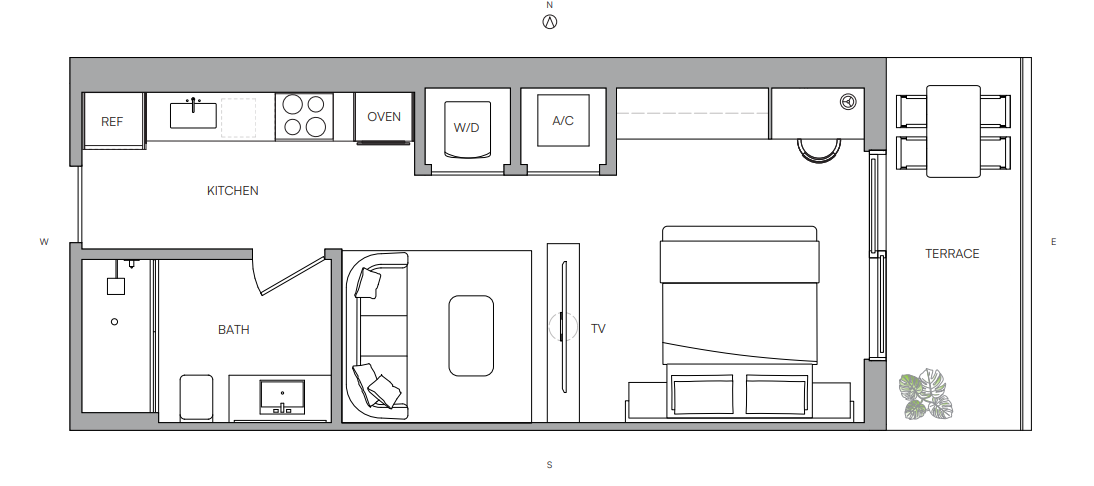
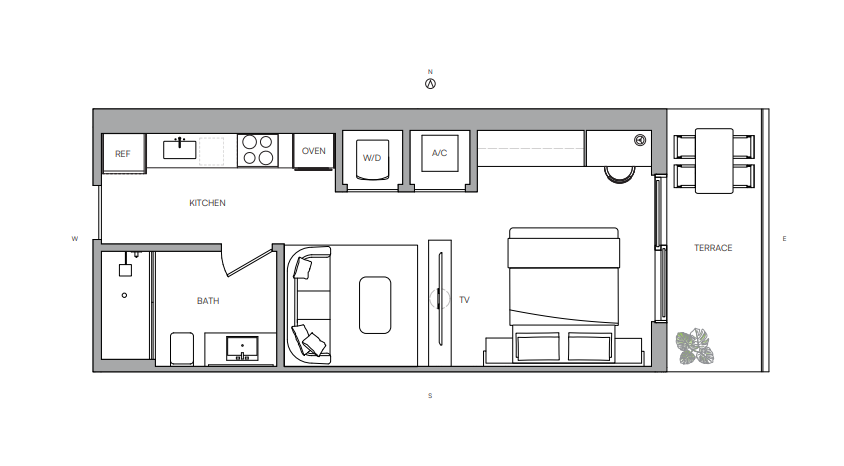
Update Torre Lumina HTML to include downloadable plans with images for Linea 01 to Linea 13

Changed region(s): [[0.0308, 0.0901, 0.955, 0.9013], [0.4929, 0.0, 0.5237, 0.0601], [0.8626, 0.1502, 0.8934, 0.1803]]

diff --git a/torre-lumina.html b/torre-lumina.html
@@ -302,11 +302,11 @@
 
     <!-- Panel: Monoambiente -->
     <div class="plan-tab grid lg:grid-cols-2 gap-10 items-center" data-panel="mono" data-active="true">
-      <div class="rounded-2xl border border-dashed border-hairline bp-grid aspect-[4/3] flex flex-col items-center justify-center gap-3 text-center px-6">
-        <i data-lucide="ruler" class="w-7 h-7 text-gold"></i>
-        <p class="font-mono text-xs text-muted uppercase tracking-widest">Espacio reservado para plano</p>
-        <p class="font-mono text-[11px] text-muted/70">Linea 01 · 77.37 m²</p>
-      </div>
+      <a href="/Proyecto-Kolly/src/Linea01.pdf" download="Linea01.pdf"
+         class="group rounded-2xl border border-hairline aspect-[4/3] overflow-hidden block hover:border-gold/60 transition-colors">
+        <img src="/Proyecto-Kolly/src/Linea01.png" alt="Plano Linea 01" loading="lazy"
+             class="w-full h-full object-cover group-hover:scale-105 transition-transform duration-500">
+      </a>
       <div>
         <h3 class="font-display text-3xl font-light mb-6">Linea 01</h3>
         <dl class="space-y-4 font-mono text-sm">
@@ -328,11 +328,11 @@
 
     <!-- Panel: 2 Ambientes -->
     <div class="plan-tab grid lg:grid-cols-2 gap-10 items-center" data-panel="dos" data-active="false">
-      <div class="rounded-2xl border border-dashed border-hairline bp-grid aspect-[4/3] flex flex-col items-center justify-center gap-3 text-center px-6">
-        <i data-lucide="ruler" class="w-7 h-7 text-gold"></i>
-        <p class="font-mono text-xs text-muted uppercase tracking-widest">Espacio reservado para plano</p>
-        <p class="font-mono text-[11px] text-muted/70">Linea 02 · 50.8 m²</p>
-      </div>
+      <a href="/Proyecto-Kolly/src/Linea02.pdf" download="Linea02.pdf"
+         class="group rounded-2xl border border-hairline aspect-[4/3] overflow-hidden block hover:border-gold/60 transition-colors">
+        <img src="/Proyecto-Kolly/src/Linea02.png" alt="Plano Linea 02" loading="lazy"
+             class="w-full h-full object-cover group-hover:scale-105 transition-transform duration-500">
+      </a>
       <div>
         <h3 class="font-display text-3xl font-light mb-6">Linea 02</h3>
         <dl class="space-y-4 font-mono text-sm">
@@ -354,11 +354,11 @@
 
     <!-- Linea 03 -->
     <div class="plan-tab grid lg:grid-cols-2 gap-10 items-center" data-panel="tres" data-active="false">
-      <div class="rounded-2xl border border-dashed border-hairline bp-grid aspect-[4/3] flex flex-col items-center justify-center gap-3 text-center px-6">
-        <i data-lucide="ruler" class="w-7 h-7 text-gold"></i>
-        <p class="font-mono text-xs text-muted uppercase tracking-widest">Espacio reservado para plano</p>
-        <p class="font-mono text-[11px] text-muted/70">Linea 03 · 154.3 m²</p>
-      </div>
+      <a href="/Proyecto-Kolly/src/Linea03.pdf" download="Linea03.pdf"
+         class="group rounded-2xl border border-hairline aspect-[4/3] overflow-hidden block hover:border-gold/60 transition-colors">
+        <img src="/Proyecto-Kolly/src/Linea03.png" alt="Plano Linea 03" loading="lazy"
+             class="w-full h-full object-cover group-hover:scale-105 transition-transform duration-500">
+      </a>
       <div>
         <h3 class="font-display text-3xl font-light mb-6">Linea 03</h3>
         <dl class="space-y-4 font-mono text-sm">
@@ -380,11 +380,11 @@
 
    <!-- Linea 04 -->
     <div class="plan-tab grid lg:grid-cols-2 gap-10 items-center" data-panel="tres" data-active="false">
-      <div class="rounded-2xl border border-dashed border-hairline bp-grid aspect-[4/3] flex flex-col items-center justify-center gap-3 text-center px-6">
-        <i data-lucide="ruler" class="w-7 h-7 text-gold"></i>
-        <p class="font-mono text-xs text-muted uppercase tracking-widest">Espacio reservado para plano</p>
-        <p class="font-mono text-[11px] text-muted/70">Linea 04 · 112.77 m²</p>
-      </div>
+      <a href="/Proyecto-Kolly/src/Linea04.pdf" download="Linea04.pdf"
+         class="group rounded-2xl border border-hairline aspect-[4/3] overflow-hidden block hover:border-gold/60 transition-colors">
+        <img src="/Proyecto-Kolly/src/Linea04.png" alt="Plano Linea 04" loading="lazy"
+             class="w-full h-full object-cover group-hover:scale-105 transition-transform duration-500">
+      </a>
       <div>
         <h3 class="font-display text-3xl font-light mb-6">Linea 04</h3>
         <dl class="space-y-4 font-mono text-sm">
@@ -407,11 +407,11 @@
 
    <!-- Linea 05 -->
     <div class="plan-tab grid lg:grid-cols-2 gap-10 items-center" data-panel="tres" data-active="false">
-      <div class="rounded-2xl border border-dashed border-hairline bp-grid aspect-[4/3] flex flex-col items-center justify-center gap-3 text-center px-6">
-        <i data-lucide="ruler" class="w-7 h-7 text-gold"></i>
-        <p class="font-mono text-xs text-muted uppercase tracking-widest">Espacio reservado para plano</p>
-        <p class="font-mono text-[11px] text-muted/70">Linea 05 · 49.05 m²</p>
-      </div>
+      <a href="/Proyecto-Kolly/src/Linea05.pdf" download="Linea05.pdf"
+         class="group rounded-2xl border border-hairline aspect-[4/3] overflow-hidden block hover:border-gold/60 transition-colors">
+        <img src="/Proyecto-Kolly/src/Linea05.png" alt="Plano Linea 05" loading="lazy"
+             class="w-full h-full object-cover group-hover:scale-105 transition-transform duration-500">
+      </a>
       <div>
         <h3 class="font-display text-3xl font-light mb-6">Linea 05 </h3>
         <dl class="space-y-4 font-mono text-sm">
@@ -434,11 +434,11 @@
 
    <!-- Linea 06 -->
     <div class="plan-tab grid lg:grid-cols-2 gap-10 items-center" data-panel="tres" data-active="false">
-      <div class="rounded-2xl border border-dashed border-hairline bp-grid aspect-[4/3] flex flex-col items-center justify-center gap-3 text-center px-6">
-        <i data-lucide="ruler" class="w-7 h-7 text-gold"></i>
-        <p class="font-mono text-xs text-muted uppercase tracking-widest">Espacio reservado para plano</p>
-        <p class="font-mono text-[11px] text-muted/70">Linea 06 · 51.82 m²</p>
-      </div>
+      <a href="/Proyecto-Kolly/src/Linea06.pdf" download="Linea06.pdf"
+         class="group rounded-2xl border border-hairline aspect-[4/3] overflow-hidden block hover:border-gold/60 transition-colors">
+        <img src="/Proyecto-Kolly/src/Linea06.png" alt="Plano Linea 06" loading="lazy"
+             class="w-full h-full object-cover group-hover:scale-105 transition-transform duration-500">
+      </a>
       <div>
         <h3 class="font-display text-3xl font-light mb-6">Linea 06</h3>
         <dl class="space-y-4 font-mono text-sm">
@@ -461,11 +461,11 @@
 
    <!-- Linea 07 -->
     <div class="plan-tab grid lg:grid-cols-2 gap-10 items-center" data-panel="tres" data-active="false">
-      <div class="rounded-2xl border border-dashed border-hairline bp-grid aspect-[4/3] flex flex-col items-center justify-center gap-3 text-center px-6">
-        <i data-lucide="ruler" class="w-7 h-7 text-gold"></i>
-        <p class="font-mono text-xs text-muted uppercase tracking-widest">Espacio reservado para plano</p>
-        <p class="font-mono text-[11px] text-muted/70">Linea 07 · 71.99 m²</p>
-      </div>
+      <a href="/Proyecto-Kolly/src/Linea07.pdf" download="Linea07.pdf"
+         class="group rounded-2xl border border-hairline aspect-[4/3] overflow-hidden block hover:border-gold/60 transition-colors">
+        <img src="/Proyecto-Kolly/src/Linea07.png" alt="Plano Linea 07" loading="lazy"
+             class="w-full h-full object-cover group-hover:scale-105 transition-transform duration-500">
+      </a>
       <div>
         <h3 class="font-display text-3xl font-light mb-6">Linea 07</h3>
         <dl class="space-y-4 font-mono text-sm">
@@ -488,11 +488,11 @@
 
    <!-- Linea 08 -->
     <div class="plan-tab grid lg:grid-cols-2 gap-10 items-center" data-panel="tres" data-active="false">
-      <div class="rounded-2xl border border-dashed border-hairline bp-grid aspect-[4/3] flex flex-col items-center justify-center gap-3 text-center px-6">
-        <i data-lucide="ruler" class="w-7 h-7 text-gold"></i>
-        <p class="font-mono text-xs text-muted uppercase tracking-widest">Espacio reservado para plano</p>
-        <p class="font-mono text-[11px] text-muted/70">Linea 08 · 98.65 m²</p>
-      </div>
+      <a href="/Proyecto-Kolly/src/Linea08.pdf" download="Linea08.pdf"
+         class="group rounded-2xl border border-hairline aspect-[4/3] overflow-hidden block hover:border-gold/60 transition-colors">
+        <img src="/Proyecto-Kolly/src/Linea08.png" alt="Plano Linea 08" loading="lazy"
+             class="w-full h-full object-cover group-hover:scale-105 transition-transform duration-500">
+      </a>
       <div>
         <h3 class="font-display text-3xl font-light mb-6">Linea 08 </h3>
         <dl class="space-y-4 font-mono text-sm">
@@ -515,11 +515,11 @@
 
    <!-- Linea 09 -->
     <div class="plan-tab grid lg:grid-cols-2 gap-10 items-center" data-panel="tres" data-active="false">
-      <div class="rounded-2xl border border-dashed border-hairline bp-grid aspect-[4/3] flex flex-col items-center justify-center gap-3 text-center px-6">
-        <i data-lucide="ruler" class="w-7 h-7 text-gold"></i>
-        <p class="font-mono text-xs text-muted uppercase tracking-widest">Espacio reservado para plano</p>
-        <p class="font-mono text-[11px] text-muted/70">Linea 09 · 98.65 m²</p>
-      </div>
+      <a href="/Proyecto-Kolly/src/Linea09.pdf" download="Linea09.pdf"
+         class="group rounded-2xl border border-hairline aspect-[4/3] overflow-hidden block hover:border-gold/60 transition-colors">
+        <img src="/Proyecto-Kolly/src/Linea09.png" alt="Plano Linea 09" loading="lazy"
+             class="w-full h-full object-cover group-hover:scale-105 transition-transform duration-500">
+      </a>
       <div>
         <h3 class="font-display text-3xl font-light mb-6">Linea 09</h3>
         <dl class="space-y-4 font-mono text-sm">
@@ -542,11 +542,11 @@
 
    <!-- Panel: 3 Ambientes -->
     <div class="plan-tab grid lg:grid-cols-2 gap-10 items-center" data-panel="tres" data-active="false">
-      <div class="rounded-2xl border border-dashed border-hairline bp-grid aspect-[4/3] flex flex-col items-center justify-center gap-3 text-center px-6">
-        <i data-lucide="ruler" class="w-7 h-7 text-gold"></i>
-        <p class="font-mono text-xs text-muted uppercase tracking-widest">Espacio reservado para plano</p>
-        <p class="font-mono text-[11px] text-muted/70">Linea 10 · 78.98 m²</p>
-      </div>
+      <a href="/Proyecto-Kolly/src/Linea10.pdf" download="Linea10.pdf"
+         class="group rounded-2xl border border-hairline aspect-[4/3] overflow-hidden block hover:border-gold/60 transition-colors">
+        <img src="/Proyecto-Kolly/src/Linea10.png" alt="Plano Linea 10" loading="lazy"
+             class="w-full h-full object-cover group-hover:scale-105 transition-transform duration-500">
+      </a>
       <div>
         <h3 class="font-display text-3xl font-light mb-6">Linea 10</h3>
         <dl class="space-y-4 font-mono text-sm">
@@ -569,11 +569,11 @@
 
    <!-- Linea 11 -->
     <div class="plan-tab grid lg:grid-cols-2 gap-10 items-center" data-panel="tres" data-active="false">
-      <div class="rounded-2xl border border-dashed border-hairline bp-grid aspect-[4/3] flex flex-col items-center justify-center gap-3 text-center px-6">
-        <i data-lucide="ruler" class="w-7 h-7 text-gold"></i>
-        <p class="font-mono text-xs text-muted uppercase tracking-widest">Espacio reservado para plano</p>
-        <p class="font-mono text-[11px] text-muted/70">Linea 11 · 55.63 m²</p>
-      </div>
+      <a href="/Proyecto-Kolly/src/Linea11.pdf" download="Linea11.pdf"
+         class="group rounded-2xl border border-hairline aspect-[4/3] overflow-hidden block hover:border-gold/60 transition-colors">
+        <img src="/Proyecto-Kolly/src/Linea11.png" alt="Plano Linea 11" loading="lazy"
+             class="w-full h-full object-cover group-hover:scale-105 transition-transform duration-500">
+      </a>
       <div>
         <h3 class="font-display text-3xl font-light mb-6">Linea 11</h3>
         <dl class="space-y-4 font-mono text-sm">
@@ -596,11 +596,11 @@
 
    <!-- Linea 12 -->
     <div class="plan-tab grid lg:grid-cols-2 gap-10 items-center" data-panel="tres" data-active="false">
-      <div class="rounded-2xl border border-dashed border-hairline bp-grid aspect-[4/3] flex flex-col items-center justify-center gap-3 text-center px-6">
-        <i data-lucide="ruler" class="w-7 h-7 text-gold"></i>
-        <p class="font-mono text-xs text-muted uppercase tracking-widest">Espacio reservado para plano</p>
-        <p class="font-mono text-[11px] text-muted/70">Linea 12 · 79.6 m²</p>
-      </div>
+      <a href="/Proyecto-Kolly/src/Linea12.pdf" download="Linea12.pdf"
+         class="group rounded-2xl border border-hairline aspect-[4/3] overflow-hidden block hover:border-gold/60 transition-colors">
+        <img src="/Proyecto-Kolly/src/Linea12.png" alt="Plano Linea 12" loading="lazy"
+             class="w-full h-full object-cover group-hover:scale-105 transition-transform duration-500">
+      </a>
       <div>
         <h3 class="font-display text-3xl font-light mb-6">Linea 12</h3>
         <dl class="space-y-4 font-mono text-sm">
@@ -626,11 +626,11 @@
 
    <!-- linea 013 -->
     <div class="plan-tab grid lg:grid-cols-2 gap-10 items-center" data-panel="tres" data-active="false">
-      <div class="rounded-2xl border border-dashed border-hairline bp-grid aspect-[4/3] flex flex-col items-center justify-center gap-3 text-center px-6">
-        <i data-lucide="ruler" class="w-7 h-7 text-gold"></i>
-        <a href="/Proyecto-Kolly/src/Plano13.pdf" download="Plano_Linea13.pdf" class="rounded-2xl border border-hairline aspect-[4/3] overflow-hidden cursor-pointer hover:border-gold/60 transition-colors group relative block">
-        <img src="/Proyecto-Kolly/src/Plano13.png" alt="Plano de la Linea 13">
-      </div>
+      <a href="/Proyecto-Kolly/src/Plano13.pdf" download="Plano13.pdf"
+         class="group rounded-2xl border border-hairline aspect-[4/3] overflow-hidden block hover:border-gold/60 transition-colors">
+        <img src="/Proyecto-Kolly/src/Plano13.png" alt="Plano Linea 13" loading="lazy"
+             class="w-full h-full object-cover group-hover:scale-105 transition-transform duration-500">
+      </a>
       <div>
         <h3 class="font-display text-3xl font-light mb-6">Linea 13</h3>
         <dl class="space-y-4 font-mono text-sm">
